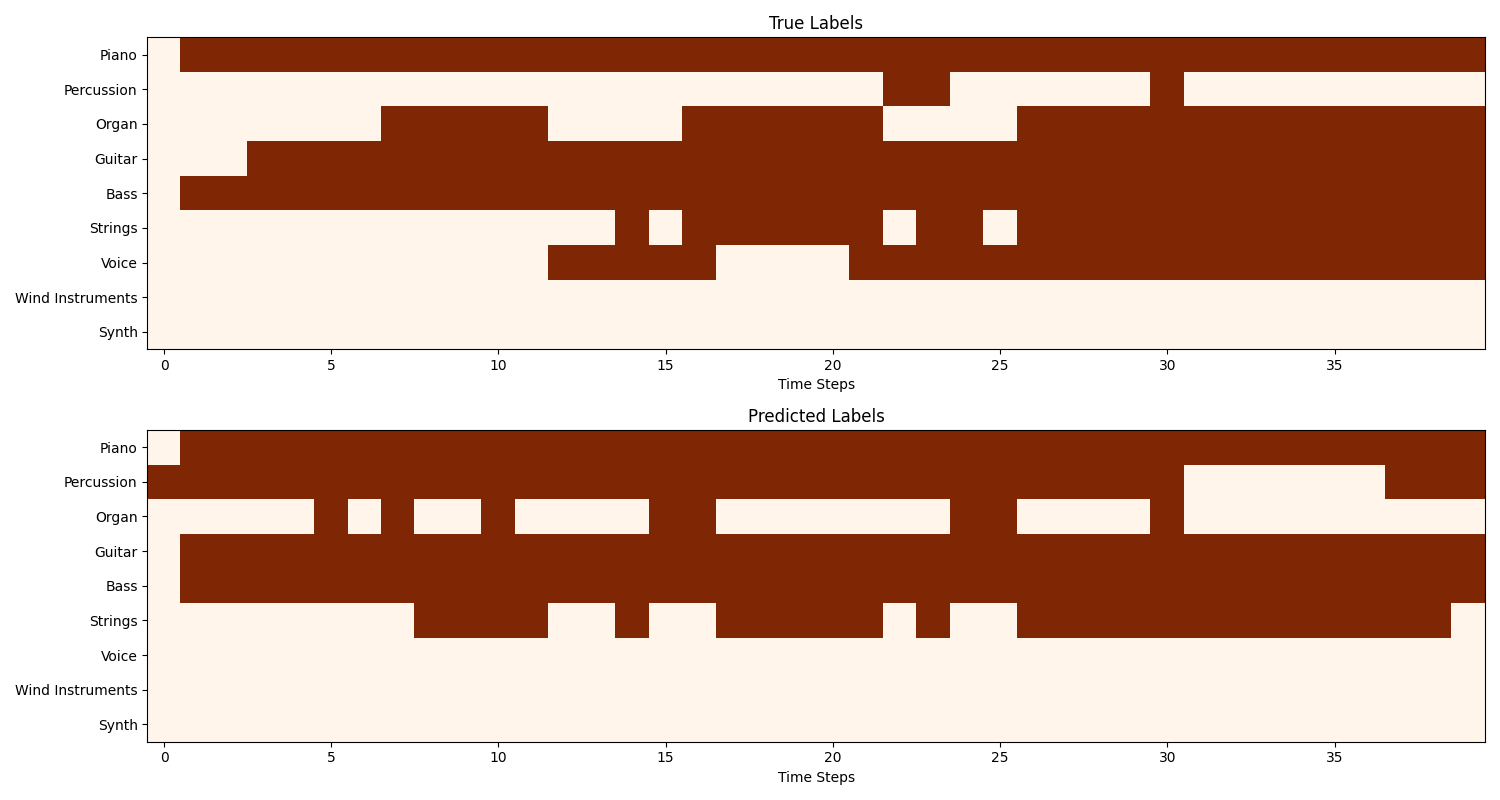
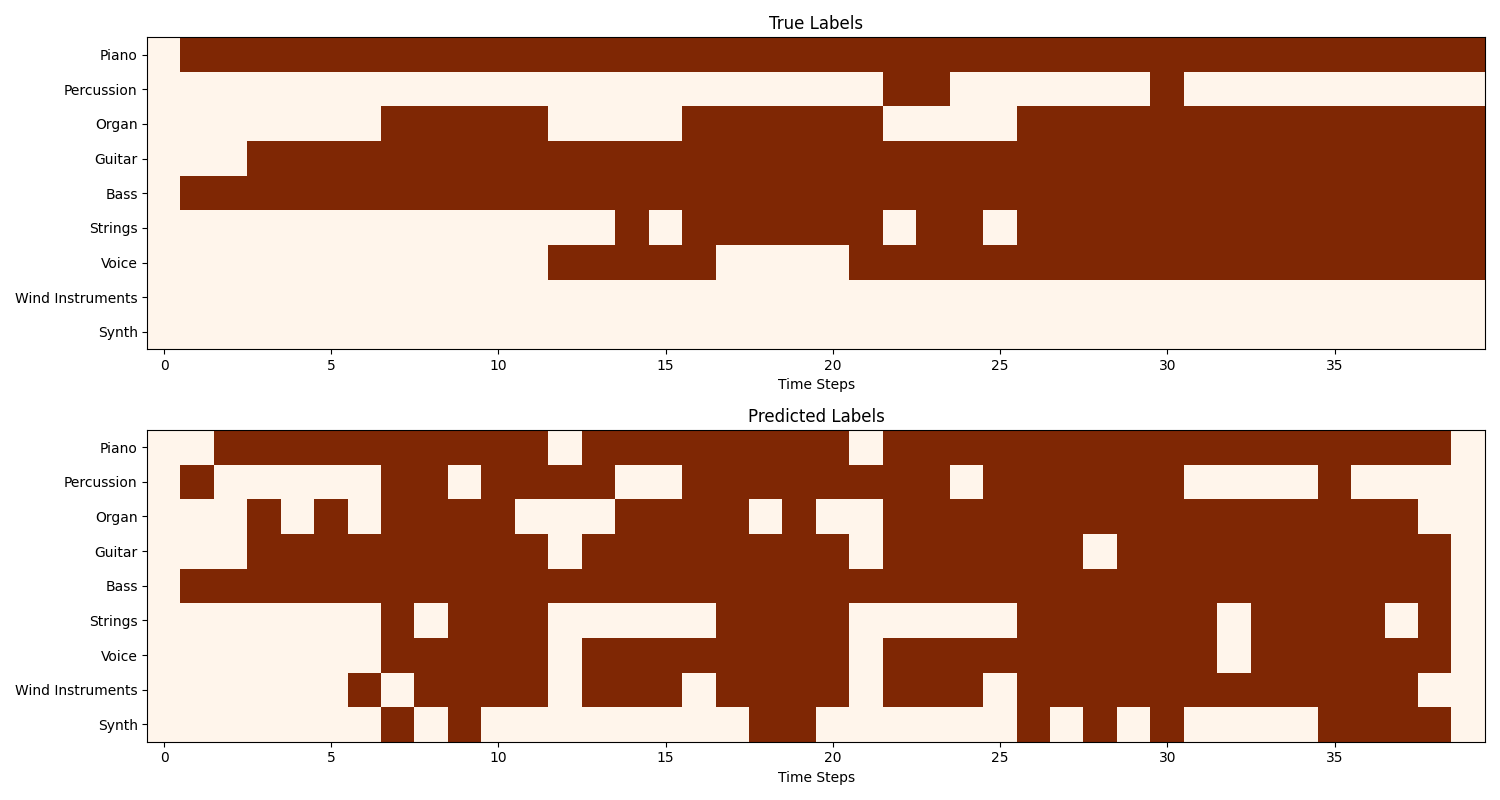
Add focal loss and ROC curve

diff --git a/test.py b/test.py
@@ -22,7 +22,7 @@ def parse_arguments() -> Namespace:
     parser.add_argument(
         '--ckpt_dir',
         type=str,
-        default='checkpoints/10-01-21-18-42',
+        default='checkpoints/10-02-04-36-30',
     )
     return parser.parse_args()
 
@@ -34,31 +34,90 @@ if __name__ == "__main__":
 
     config = read_json(os.path.join(args.ckpt_dir, 'config.json'))
 
-    transforms = get_transforms()
+    transforms = get_transforms(model_name=config['model_name'])
     test_loader = MusicDataset(test_data, transforms).get_loader()
 
     # Prepare inference
     checkpoint = torch.load(os.path.join(args.ckpt_dir, CKPT_FILE), weights_only=True)
     device = torch.device(f'cuda:0'if torch.cuda.is_available() else 'cpu')
     model = MERTClassifier(
-        model_name=config.model_name,
-        hidden_states=config.hidden_states,
+        model_name=config['model_name'],
+        hidden_states=config['hidden_states'],
+        fine_tune_method=config['fine_tune_method'],
+        thresholds=[
+            0.85112745,
+            0.111269526,
+            0.17468038,
+            0.7682016,
+            0.86039627,
+            0.5402954,
+            0.13542163,
+            0.43342066,
+            0.21783678,
+        ]
     )
     model.load_state_dict(checkpoint['model'])
     model = model.to(device)
     model.eval()
 
+    probas = []
     preds = []
     labels = []
-    with torch.no_grad():
-        for data in tqdm(test_loader):
-            data = dict_to_device(data, device)
-            pred = model.predict(data['audio'])
-            preds.append(pred)
-            labels.append(data['label'])
+    for data in tqdm(test_loader):
+        data = dict_to_device(data, device)
+        proba = model.predict_proba(data['audio'])
+        pred = model.predict(data['audio'])
 
+        probas.append(proba)
+        preds.append(pred)
+        labels.append(data['label'])
+
+    probas = torch.cat(probas).cpu().numpy()
     preds = torch.cat(preds).cpu().numpy()
     labels = torch.cat(labels).cpu().numpy()
 
     report = classification_report(labels, preds, target_names=CATEGORIES)
     print(report)
+
+
+
+    import numpy as np
+    import matplotlib.pyplot as plt
+    from sklearn.metrics import roc_curve, auc
+
+
+    n_classes = 9
+
+
+    y_true = labels
+    y_score = probas
+
+
+    fpr = dict()
+    tpr = dict()
+    roc_auc = dict()
+    thresholds = dict()
+    best_thresholds = dict()
+
+    plt.figure()
+    for i in range(n_classes):
+        fpr[i], tpr[i], thresholds[i] = roc_curve(y_true[:, i], y_score[:, i])
+        roc_auc[i] = auc(fpr[i], tpr[i])
+
+        # 計算 Youden's J statistic
+        J = tpr[i] - fpr[i]
+        ix = np.argmax(J)
+        best_thresholds[i] = thresholds[i][ix]
+
+        plt.plot(fpr[i], tpr[i], label=f'Class {i} (Best Threshold = {best_thresholds[i]:.2f})')
+
+        print(i, best_thresholds[i])
+
+    plt.plot([0, 1], [0, 1], 'k--')
+    plt.xlim([0.0, 1.0])
+    plt.ylim([0.0, 1.05])
+    plt.xlabel('False Positive Rate')
+    plt.ylabel('True Positive Rate')
+    plt.title('ROC Curve for Multi-Label Classification')
+    plt.legend(loc="lower right")
+    plt.savefig(os.path.join(RESULT_DIR, 'roc_curve.png'))

diff --git a/plot_pianoroll.py b/plot_pianoroll.py
@@ -1,5 +1,4 @@
 import os
-import json
 from argparse import ArgumentParser, Namespace
 from glob import glob
 
@@ -11,7 +10,7 @@ import torch
 from transformers import Wav2Vec2FeatureExtractor
 from tqdm import tqdm
 
-from src.constants import CKPT_FILE, CATEGORIES, MODEL_NAME, SAMPLE_RATE, RESULT_DIR
+from src.constants import CKPT_FILE, CATEGORIES, SAMPLE_RATE, RESULT_DIR
 from src.model import MERTClassifier
 from src.utils import read_json
 
@@ -32,7 +31,7 @@ def parse_arguments() -> Namespace:
     parser.add_argument(
         '--ckpt_dir',
         type=str,
-        default='checkpoints/10-01-19-47-49',
+        default='checkpoints/10-02-04-36-30',
     )
     return parser.parse_args()
 
@@ -121,14 +120,30 @@ def predict_pianoroll(audio_path, length, processor, model, device, chunk_durati
 def main(args):
     os.makedirs(RESULT_DIR, exist_ok=True)
     audio_path_list = glob(os.path.join(args.test_track_dir, '*.flac'))
+    config = read_json(os.path.join(args.ckpt_dir, 'config.json'))
 
     processor = Wav2Vec2FeatureExtractor.from_pretrained(
-        MODEL_NAME, trust_remote_code=True,
+        config['model_name'], trust_remote_code=True,
     )
 
     checkpoint = torch.load(os.path.join(args.ckpt_dir, CKPT_FILE), weights_only=True)
     device = torch.device(f'cuda:0'if torch.cuda.is_available() else 'cpu')
-    model = MERTClassifier()
+    model = MERTClassifier(
+        model_name=config['model_name'],
+        hidden_states=config['hidden_states'],
+        fine_tune_method=config['fine_tune_method'],
+        thresholds=[
+            0.85112745,
+            0.111269526,
+            0.17468038,
+            0.7682016,
+            0.86039627,
+            0.5402954,
+            0.13542163,
+            0.43342066,
+            0.21783678,
+        ]
+    )
     model.load_state_dict(checkpoint['model'])
     model = model.to(device)
     model.eval()

diff --git a/src/losses.py b/src/losses.py
@@ -1,0 +1,37 @@
+import torch
+import torch.nn as nn
+
+
+class FocalBCEWithLogitsLoss(nn.Module):
+    def __init__(self, alpha=1, gamma=2, reduction='mean'):
+        super(FocalBCEWithLogitsLoss, self).__init__()
+        self.alpha = alpha
+        self.gamma = gamma
+        self.bce_loss = nn.BCEWithLogitsLoss(reduction='none')
+        self.reduction = reduction
+
+    def forward(self, x, y):
+        bce_loss = self.bce_loss(x, y)
+        probas = torch.sigmoid(x)
+        focal_factor = torch.where(y == 1, (1 - probas) ** self.gamma, probas ** self.gamma)
+        loss = focal_factor * bce_loss
+
+        if self.alpha is not None:
+            alpha_factor = torch.where(y == 1, self.alpha, 1 - self.alpha)
+            loss = alpha_factor * loss
+
+        if self.reduction == 'mean':
+            return loss.mean()
+        elif self.reduction == 'sum':
+            return loss.sum()
+        else:
+            return loss
+
+
+def get_loss(name: str) -> nn.Module:
+    if name == 'bce_with_logits':
+        return nn.BCEWithLogitsLoss()
+    elif name == 'focal_bce_with_logits':
+        return FocalBCEWithLogitsLoss()
+    else:
+        raise ValueError(f"Loss function {name} not found")

diff --git a/src/trainer.py b/src/trainer.py
@@ -65,13 +65,22 @@ class Trainer:
     def train_step(self, batch_data) -> Dict[str, torch.Tensor]:
         outputs = self.model(batch_data['audio'])
         loss = self.criterion(outputs, batch_data['label'].float())
-        return {'loss': loss, 'lr': self.lr_scheduler.get_last_lr()[0]}
+        return {
+            'loss': loss,
+            'lr': self.lr_scheduler.get_last_lr()[0],
+            'vram_allocated_MB': torch.cuda.memory_allocated() / (1024 ** 2),
+            'vram_reserved_MB': torch.cuda.memory_reserved() / (1024 ** 2),
+        }
 
     def valid_step(self, batch_data) -> Dict[str, torch.Tensor]:
         outputs = self.model(batch_data['audio'])
         loss = self.criterion(outputs, batch_data['label'].float())
         pred = self.model.predict(batch_data['audio'])
-        return {'loss': loss, 'pred': pred, 'label': batch_data['label']}
+        return {
+            'loss': loss,
+            'pred': pred,
+            'label': batch_data['label'],
+        }
 
     def train_one_epoch(self) -> None:
         progress_bar = tqdm(self.train_loader, desc=f"Training {self.cur_ep}")

diff --git a/train.py b/train.py
@@ -3,10 +3,10 @@ from argparse import ArgumentParser, Namespace
 
 import torch
 import wandb
-from torch import nn
 
 from src.constants import PROJECT_NAME, CHECKPOINT_DIR, CONFIG_FILE
 from src.dataset import MusicDataset
+from src.losses import get_loss
 from src.model import MERTClassifier
 from src.optimization import get_lr_scheduler
 from src.trainer import Trainer
@@ -42,6 +42,12 @@ def parse_arguments() -> Namespace:
         '--fine_tune_method',
         default='last_layer',
         choices=['last_layer', 'lora', 'full'],
+    )
+    parser.add_argument(
+        '--loss',
+        type=str,
+        default='bce_with_logits',
+        choices=['bce_with_logits', 'focal_bce_with_logits'],
     )
     parser.add_argument(
         '--epochs',
@@ -92,7 +98,7 @@ if __name__ == '__main__':
         hidden_states=args.hidden_states,
         fine_tune_method=args.fine_tune_method,
     )
-    criterion = nn.BCEWithLogitsLoss()
+    criterion = get_loss(name=args.loss)
     optimizer = torch.optim.AdamW(
         model.parameters(),
         lr=args.lr,

diff --git a/src/model.py b/src/model.py
@@ -39,8 +39,8 @@ class MERTClassifier(nn.Module):
 
         elif self.fine_tune_method == 'lora':
             lora_config = LoraConfig(
-                r=4,
-                lora_alpha=8,
+                r=8,
+                lora_alpha=16,
                 lora_dropout=0.1,
                 target_modules=['q_proj', 'v_proj'],
             )
@@ -62,7 +62,9 @@ class MERTClassifier(nn.Module):
         return self.fc(time_reduced_states)
 
     @torch.no_grad()
+    def predict_proba(self, x):
+        return torch.sigmoid(self(x))
+
     def predict(self, x):
         thresholds_tensor = torch.tensor(self.thresholds, device=x.device)
-        probs = torch.sigmoid(self(x))
-        return (probs > thresholds_tensor).int()
+        return (self.predict_proba(x) > thresholds_tensor).int()

diff --git a/src/optimization.py b/src/optimization.py
@@ -35,3 +35,5 @@ def get_lr_scheduler(
             optimizer=optimizer,
             T_max=epochs * steps_for_one_epoch,
         )
+    else:
+        raise ValueError(f"Scheduler {name} not found")
